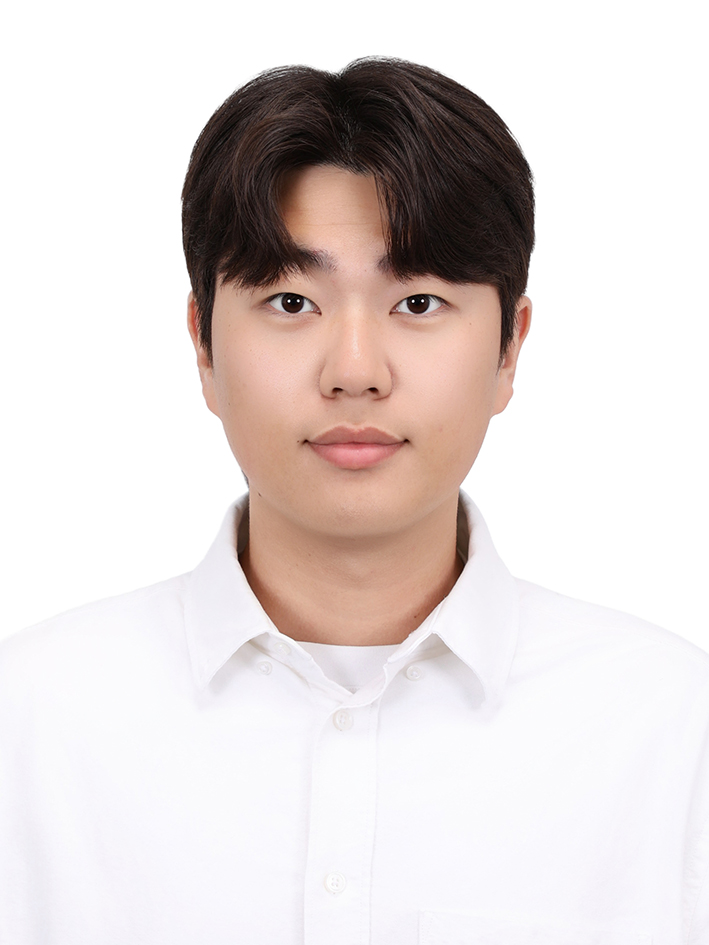
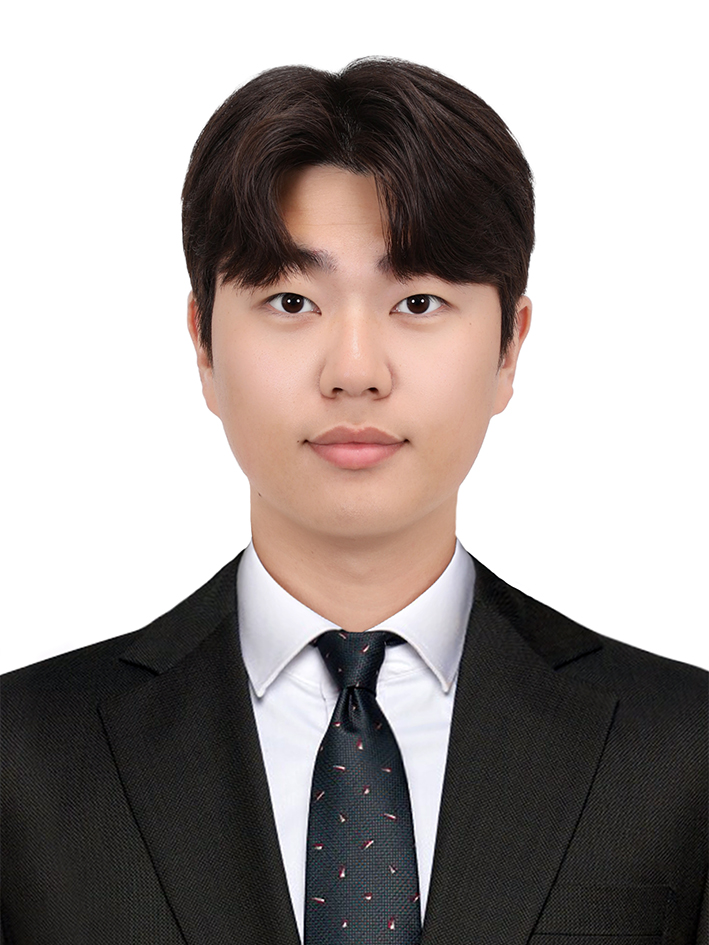
Update profile photo

diff --git a/src/pages/AboutPage.tsx b/src/pages/AboutPage.tsx
@@ -24,7 +24,7 @@ export default function AboutPage() {
     <section className="page page-pad about-page about-v2">
       <div className="about-profile-layout">
         <aside className="about-identity">
-          <div className="about-monogram about-photo"><img src="./assets/jinmyung-profile.jpeg" alt="김진명 프로필 사진" /></div>
+          <div className="about-monogram about-photo"><img src="./assets/jinmyung-profile.jpeg?v=20260904" alt="김진명 프로필 사진" /></div>
           <div className="about-person"><h1>김진명</h1><p>Jinmyung Kim</p></div>
           <dl className="identity-facts">
             <div><dt>MAJOR</dt><dd>인공지능공학과</dd></div>
